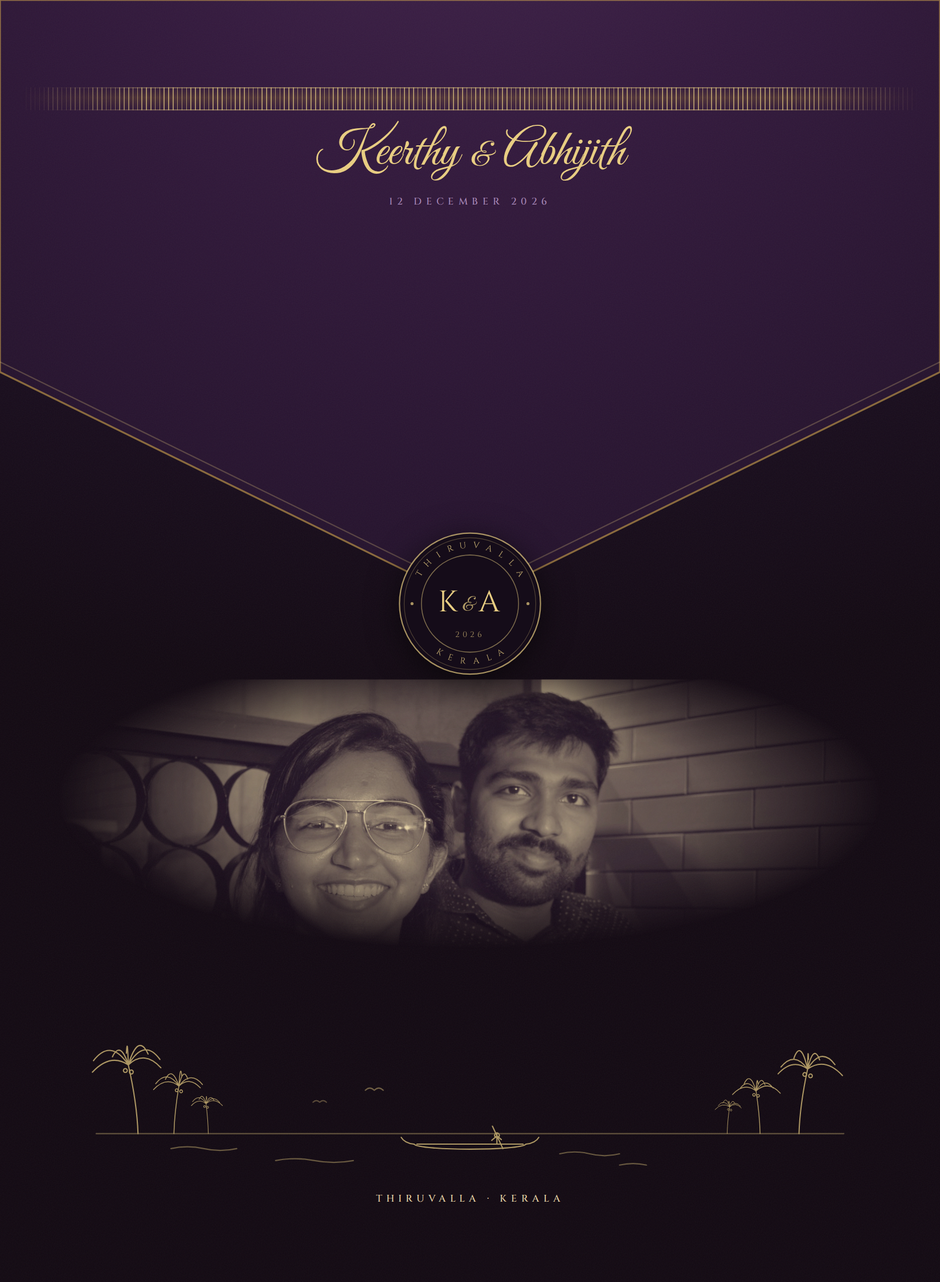
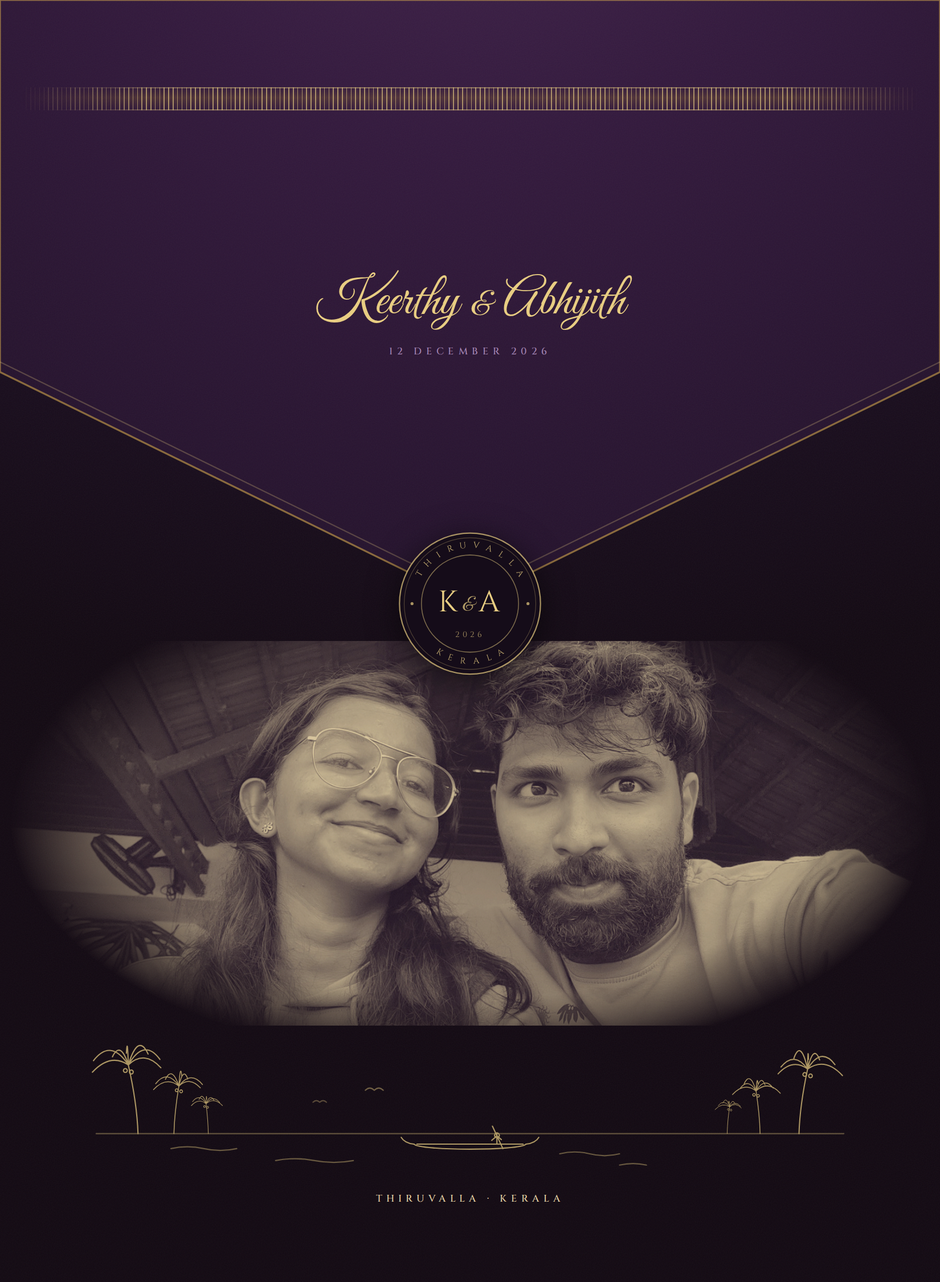
Swap both photos; open up the envelope photo band
- Card front now uses engagement-07, cut at 1100x1521 so it matches the
  arch's own 506:700 ratio and `cover` only shaves the frame. That shot has a
  white backdrop and floor where the porch shot had shade, so the fade at the
  foot of the arch is deeper — otherwise the photo ended on a bright edge
  against the plum.
- Envelope back now uses engagement-13, cut at 2.42:1 to match the band it
  sits in rather than letting object-fit throw away half the frame.
- The band was pinching the photo into a slot: it is taller (21% -> 30%) and
  the mask ellipse is wider with a much later falloff, so the image opens up
  instead of being squeezed through a narrow oval.
- Names on the envelope back drop from the top edge of the flap to near its
  middle.

Claude-Session: https://claude.ai/code/session_01U3eNzvzbkYwe2F9QhNWExs

Changed region(s): [[0.0309, 0.4978, 0.9582, 0.8089], [0.3709, 0.0933, 0.68, 0.1556], [0.34, 0.2178, 0.68, 0.2489]]

diff --git a/invitation/envelope-back.html b/invitation/envelope-back.html
@@ -23,19 +23,19 @@
     position: absolute;
     left: 0;
     right: 0;
-    top: 53%;
+    top: 50%;
     width: 100%;
-    height: 21%;
+    height: 30%;
     object-fit: cover;
-    object-position: 50% 26%;
+    object-position: 50% 44%;
     display: block;
-    opacity: 0.9;
+    opacity: 0.84;
     /* one radial layer rather than two linear ones — multi-layer
        mask-composite: intersect did not survive the renderer */
     mask-image: radial-gradient(
-      ellipse 44% 56% at 50% 44%,
-      #000 28%,
-      rgba(0, 0, 0, 0.88) 58%,
+      ellipse 49% 64% at 50% 46%,
+      #000 52%,
+      rgba(0, 0, 0, 0.92) 74%,
       transparent 100%
     );
   }
@@ -86,7 +86,7 @@
 
   .flap-type {
     position: absolute;
-    top: 118px;
+    top: 286px;
     left: 0;
     right: 0;
     text-align: center;

diff --git a/invitation/card-front.html b/invitation/card-front.html
@@ -38,7 +38,7 @@
     position: absolute;
     inset: 0;
     background:
-      linear-gradient(180deg, rgba(29, 15, 36, 0.3) 0%, transparent 20%, transparent 76%, rgba(24, 12, 30, 0.62) 100%),
+      linear-gradient(180deg, rgba(29, 15, 36, 0.34) 0%, transparent 18%, transparent 62%, rgba(24, 12, 30, 0.5) 84%, rgba(20, 10, 24, 0.9) 100%),
       radial-gradient(126% 96% at 50% 34%, transparent 60%, rgba(18, 9, 18, 0.42) 100%);
   }
 

diff --git a/invitation/build/prepare-assets.py b/invitation/build/prepare-assets.py
@@ -76,10 +76,14 @@ def duotone(im, shadow, highlight, strength=1.0):
 
 
 def build_hero():
-    """Card front: the arched-porch engagement portrait, warmed slightly."""
-    im = Image.open(os.path.join(SRC, "engagement-03.jpg")).convert("RGB")
-    # the source is a hair wider than the arch: shave the ceiling, keep their feet
-    im = cover(im, 1100, 1540, focus=0.66)
+    """Card front: the engagement portrait, warmed slightly.
+
+    1100x1521 is the arch's own ratio (506:700), so `cover` only shaves the
+    frame rather than distorting it; focus 0.16 keeps their feet in and lets
+    the chandelier sit inside the top of the arch.
+    """
+    im = Image.open(os.path.join(SRC, "engagement-07.jpg")).convert("RGB")
+    im = cover(im, 1100, 1521, focus=0.16)
     im = ImageEnhance.Color(im).enhance(0.88)
     im = ImageEnhance.Contrast(im).enhance(1.06)
     # a whisper of plum in the shadows so the photo sits in the palette
@@ -91,11 +95,11 @@ def build_hero():
 def build_candid():
     """Envelope back: an ordinary evening out, pushed to a plum/champagne duotone.
 
-    engagement-10 rather than the tighter selfies: at envelope size the faces
-    need to sit *in* a room, not fill the whole panel.
+    Cut to 2.42:1, the ratio of the band it sits in, so the mask does the
+    shaping rather than object-fit throwing away half the frame.
     """
-    im = Image.open(os.path.join(SRC, "engagement-10.jpg")).convert("RGB")
-    im = cover(im, 1600, 970, focus=0.34)
+    im = Image.open(os.path.join(SRC, "engagement-13.jpg")).convert("RGB")
+    im = cover(im, 1800, 744, focus=0.40)
     im = duotone(im, (26, 13, 32), CHAMPAGNE, strength=1.0)
     im = ImageEnhance.Brightness(im).enhance(1.06)
     im = ImageEnhance.Contrast(im).enhance(1.04)
